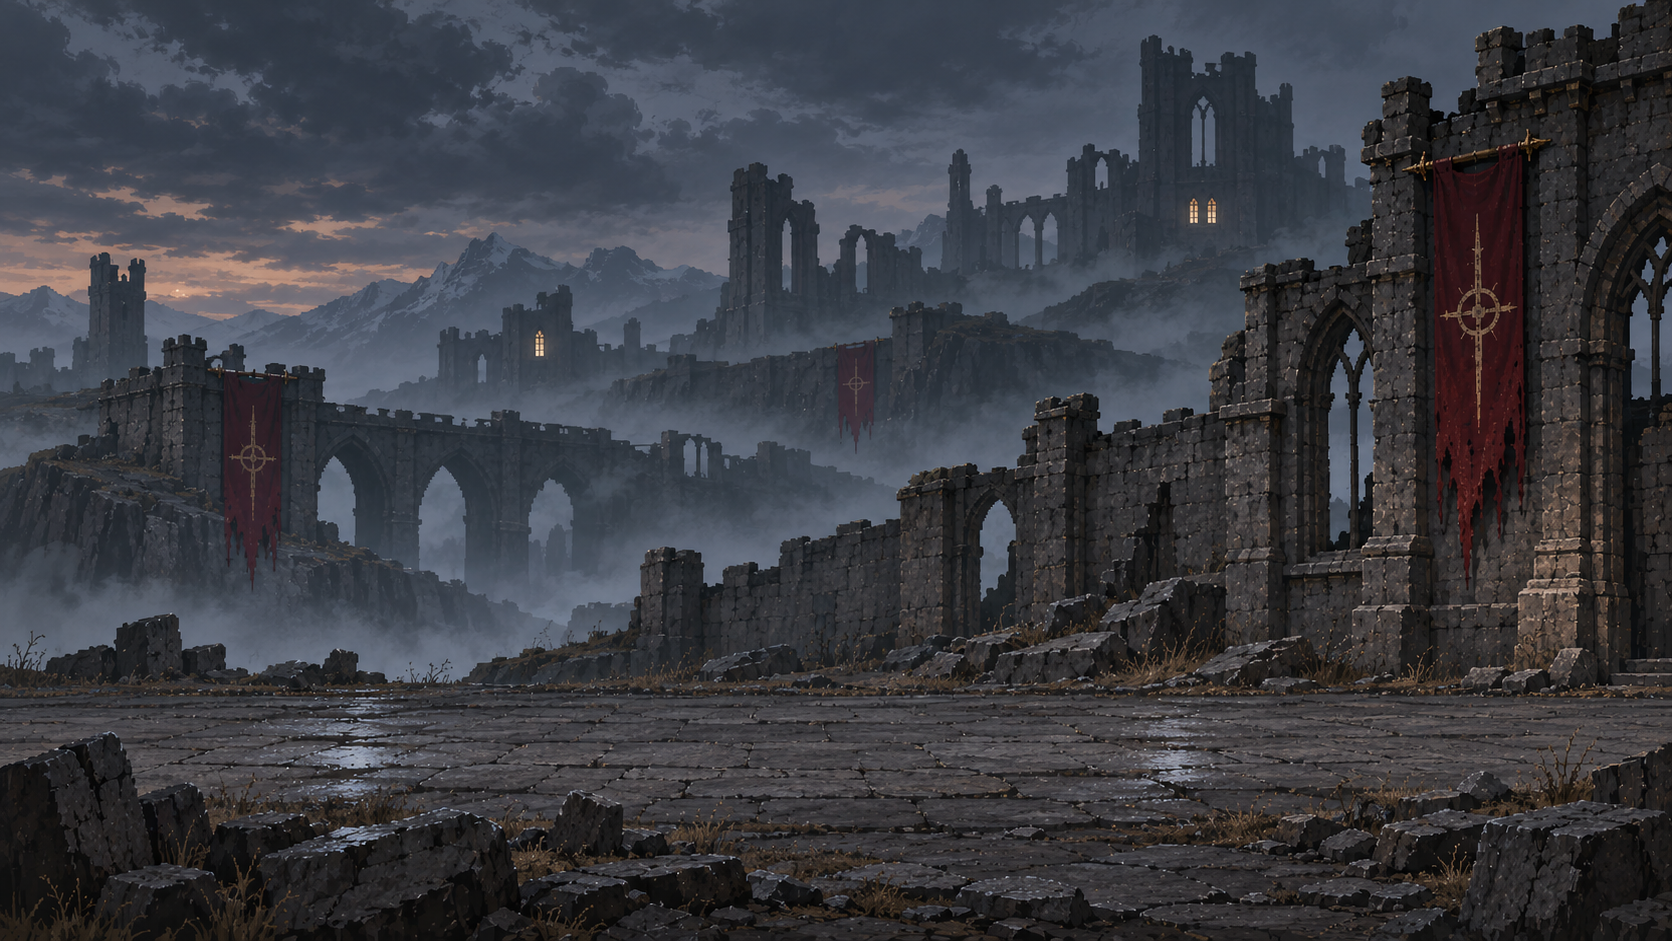
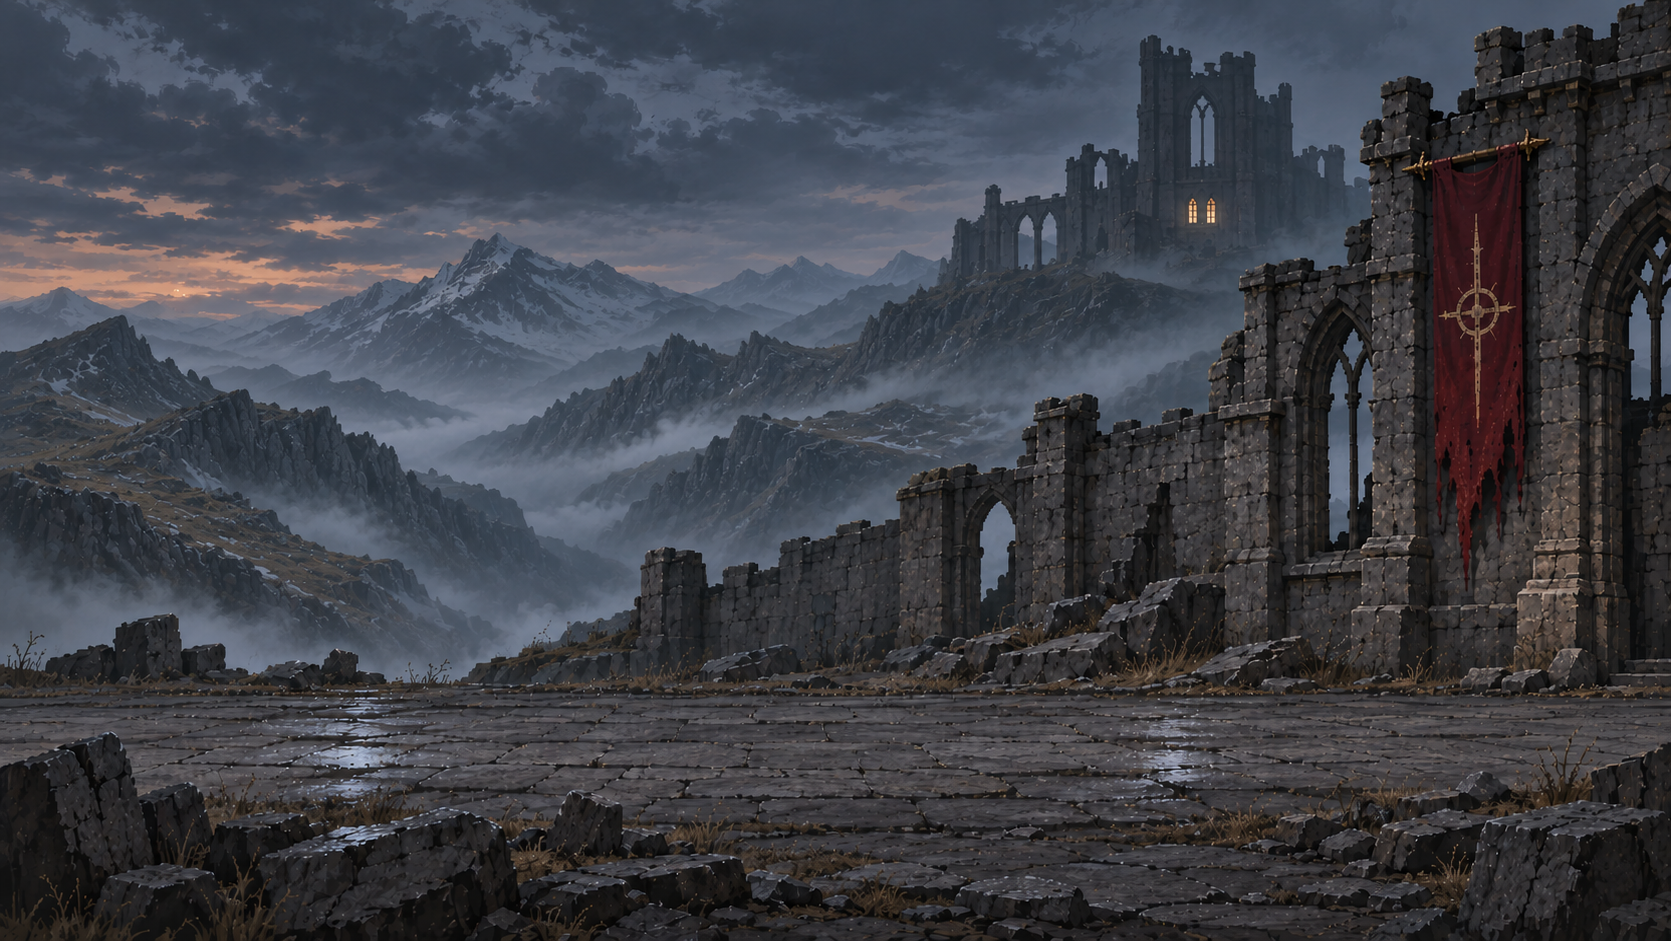
art(travel): replace repetitive bridge ruins with misty mountain valley

diff --git a/docs/CINEMATIC_TRAVEL_V1.md b/docs/CINEMATIC_TRAVEL_V1.md
@@ -23,3 +23,7 @@ New GUT checks all15 context texts, party snapshot isolation, disabled flag, def
 F6: `scenes/dev/travel_transition_playtest.tscn`. It loops an explicit QA trio without touching run/save; Space/Enter/ESC/button skips. F5: complete any Echo event, inspect result, press К СТОЛУ;4s travel or skip. Verify solo/duo/trio, role order, readable caption, footsteps/contact, foreground depth, pause/resume, one completion, save/continue no old travel. After victory claim upgrade AND loot first, then travel. Defeat/XIII/menu/load bypass. Main project is updated only after green required checks, preserving local settings.
 
 Native reproduction: `godot --path . --windowed --resolution 1280x720 --rendering-method gl_compatibility --audio-driver Dummy --script res://scripts/dev/travel_capture.gd -- <absolute-output-dir>`. Representative frames: docs/qa/travel_v1. Required final PR CI is authoritative.
+
+## Mountain valley art correction
+
+The user rejected repeated distant bridge arches. The revised source replaces the left/central middle-distance architecture with irregular mountain ridges and mist, preserving the near road/wall and main castle. Only the remaining right banner receives cloth distortion. Original source is retained in Git history (PR #103); provenance records the revised source hash. Native evidence: `docs/qa/travel_mountains/`.

diff --git a/CHANGELOG.md b/CHANGELOG.md
@@ -1,5 +1,10 @@
 ## Cinematic Travel V1 — Тропа вдоль мёртвых стен
 
+## Travel panorama — mountain valley correction
+
+User-requested art correction removes repetitive bridge-like ruins from the left/central middle distance and replaces them with distinct natural ridges and mist. Main castle, close right wall/banner, walking road and separate foreground retain the same composition. Cloth animation now masks only the remaining close banner; mountains stay rigid. Travel routing, duration, party sprites and game logic are unchanged. Original background remains recoverable in PR #103 / d4fead3f. Native verification uses the existing travel capture and F6 preview.
+
+
 Presentation-only, skippable4s travel overlay through the existing SceneRouter after the five Siege Echo outcomes and completed victory rewards. Explicit pre-completion context; no RunState mutation/save stage/deal management. Real D412 walk sprites retain actual party roles, two original parallax layers, soft mist and restrained cloth motion. Space/Enter/ESC/button skip, pause, disabled-feature fallback, single-navigation guard. [Contract, QA and F6](docs/CINEMATIC_TRAVEL_V1.md). Full RELEASE required before merge; update user's main project after green checks.
 
 ## Echo of the Siege — fifteen decision-specific illustrations

diff --git a/docs/PROJECT_STATE.md b/docs/PROJECT_STATE.md
@@ -1,5 +1,10 @@
 # Misdeal вЂ” current project state
 
+## Travel panorama — mountain valley correction
+
+User-requested art correction removes repetitive bridge-like ruins from the left/central middle distance and replaces them with distinct natural ridges and mist. Main castle, close right wall/banner, walking road and separate foreground retain the same composition. Cloth animation now masks only the remaining close banner; mountains stay rigid. Travel routing, duration, party sprites and game logic are unchanged. Original background remains recoverable in PR #103 / d4fead3f. Native verification uses the existing travel capture and F6 preview.
+
+
 ## Cinematic Travel V1 — Тропа вдоль мёртвых стен
 
 Presentation-only, skippable4s travel overlay through the existing SceneRouter after the five Siege Echo outcomes and completed victory rewards. Explicit pre-completion context; no RunState mutation/save stage/deal management. Real D412 walk sprites retain actual party roles, two original parallax layers, soft mist and restrained cloth motion. Space/Enter/ESC/button skip, pause, disabled-feature fallback, single-navigation guard. [Contract, QA and F6](CINEMATIC_TRAVEL_V1.md). Full RELEASE required before merge; update user's main project after green checks.

diff --git a/docs/HANDOFF.md b/docs/HANDOFF.md
@@ -1,5 +1,10 @@
 # Misdeal — current handoff
 
+## Travel panorama — mountain valley correction
+
+User-requested art correction removes repetitive bridge-like ruins from the left/central middle distance and replaces them with distinct natural ridges and mist. Main castle, close right wall/banner, walking road and separate foreground retain the same composition. Cloth animation now masks only the remaining close banner; mountains stay rigid. Travel routing, duration, party sprites and game logic are unchanged. Original background remains recoverable in PR #103 / d4fead3f. Native verification uses the existing travel capture and F6 preview.
+
+
 ## Cinematic Travel V1 — Тропа вдоль мёртвых стен
 
 Presentation-only, skippable4s travel overlay through the existing SceneRouter after the five Siege Echo outcomes and completed victory rewards. Explicit pre-completion context; no RunState mutation/save stage/deal management. Real D412 walk sprites retain actual party roles, two original parallax layers, soft mist and restrained cloth motion. Space/Enter/ESC/button skip, pause, disabled-feature fallback, single-navigation guard. [Contract, QA and F6](CINEMATIC_TRAVEL_V1.md). Full RELEASE required before merge; update user's main project after green checks.

diff --git a/docs/qa/travel_mountains/README.md b/docs/qa/travel_mountains/README.md
@@ -1,0 +1,7 @@
+# Mountain valley correction
+
+Five sequential native Godot 4.7.2 / NVIDIA Compatibility frames, captured with `scripts/dev/travel_capture.gd`. The left/central repeated bridge ruins are replaced with natural ridges and mist. The same actors, walking road and close banner remain readable in motion. No gameplay code changed.
+
+Focused GUT: 6/6, 118 assertions. Native fixture reported `TRAVEL_NATIVE_PASS` for Event → Travel → Table, Battle(result) → Reward → Travel → Table and direct saved Table loading. This local capture also reported 11 ObjectDB instances / one resource still in use at process exit; no script/parse/assert failures. Required CI is authoritative for integration.
+
+Art: built-in image_gen edit; prompt and SHA256 in `assets/pixel/travel/ruined_castle_road/`. The original painting is preserved in Git history at d4fead3f / PR #103.
